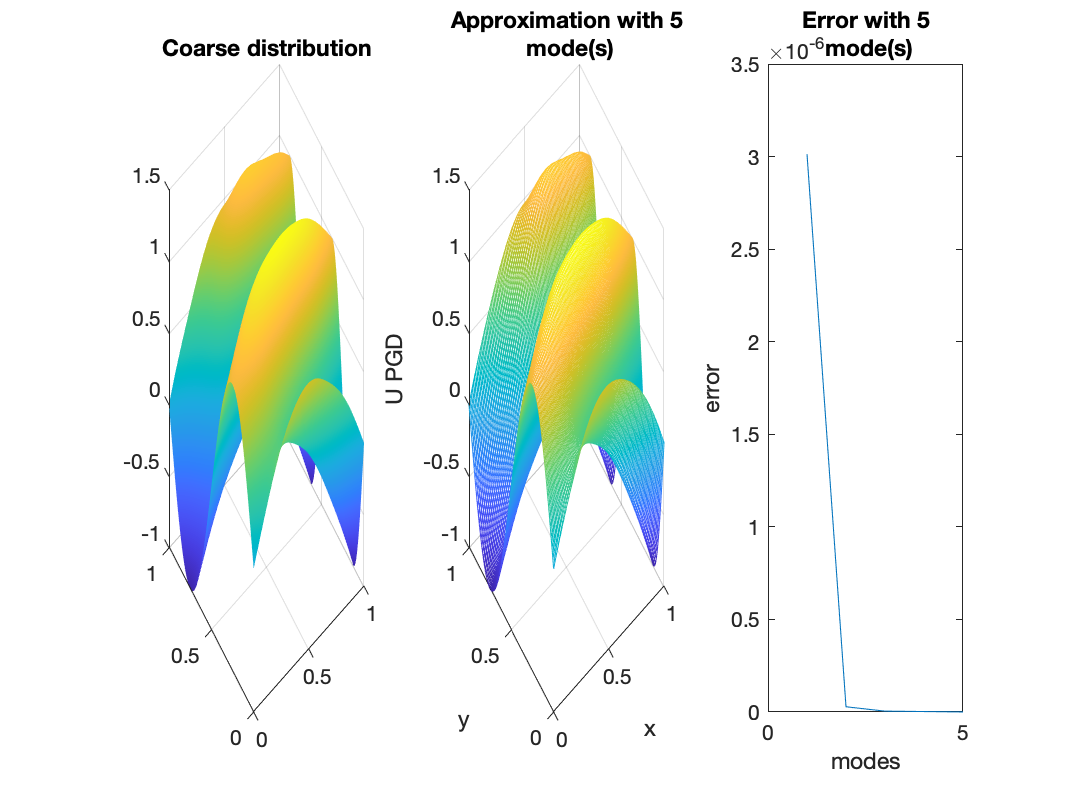
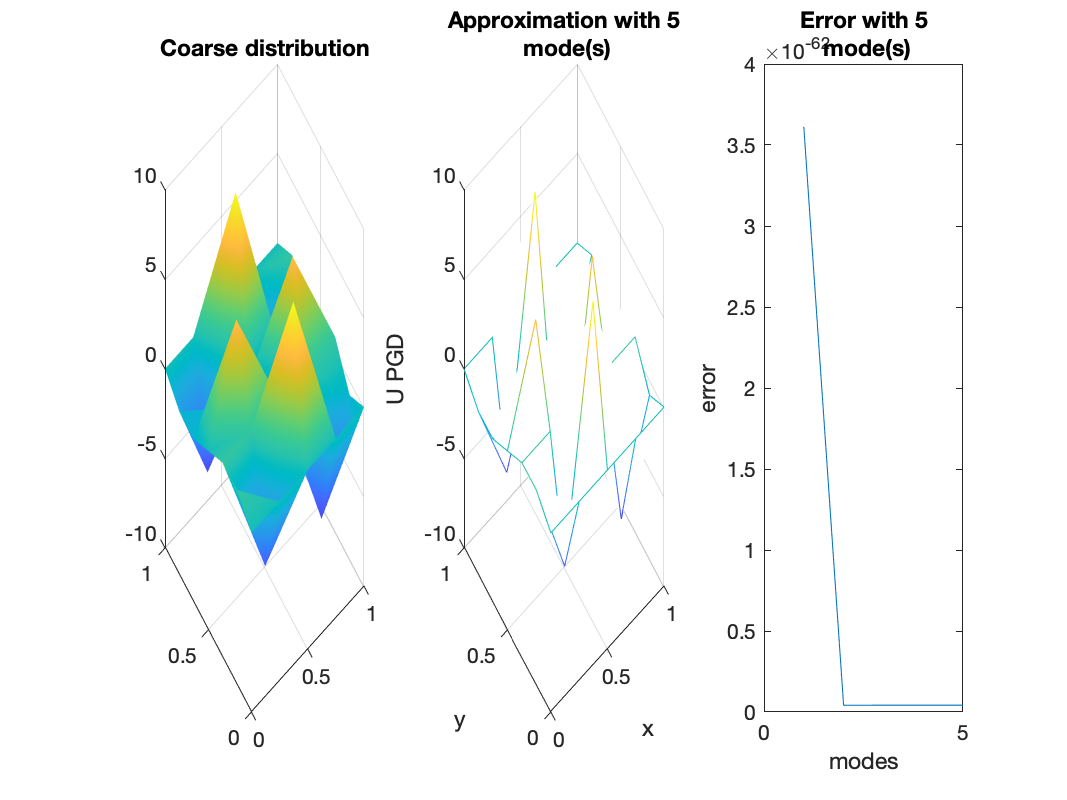
[TP2] update (tag:w)

diff --git a/TP2_eleve/TP2_moeeze.m b/TP2_eleve/TP2_moeeze.m
@@ -9,8 +9,8 @@ if_force = 1;
 
 L = 1.0; % length of the domain
 T = 1.0; % final time
-nx = 100; % number of grid points
-nt = 100; % number of time steps
+nx = 5; % number of grid points
+nt = 7; % number of time steps
 
 lx0 = 0.0; % left boundary
 lt0 = 0.0; % initial time
@@ -41,11 +41,11 @@ udLd = -sin(4*pi*lt)/T; % boundary condition
 
 %% discrete force
 if if_force==1
-   % f = (1e3 * (sin(3*pi*lt)/T)' * (sin(5*pi*lx)/L))';
+    f = (1e3 * (sin(3*pi*lt)/T)' * (sin(5*pi*lx)/L))';
     [mesh_x_f,mesh_t_f] = meshgrid(tf,xf);
     [mesh_x_g,mesh_t_g] = meshgrid(tc,xc);
-    fg = 10*rand(nx/10,nt/10);
-    f = interp2(mesh_x_g,mesh_t_g,fg,mesh_x_f,mesh_t_f,'spline');
+    %fg = 100*rand(nt/10,nx/10);
+    %f = interp2(mesh_x_g,mesh_t_g,fg,mesh_x_f,mesh_t_f,'spline');
 end
 %%%%%%%%%%%%%%%%%%%%%%%%%%%%%%%%%%%%%%%%%%%%%%%%%%%%%%%%%%%%%%
 
@@ -111,7 +111,7 @@ G = F - K*ucl;
 
 lambda = lt;
 iter = 0;
-W = zeros(nx, nt);
+W = zeros(nx, nt) + ucl;
 nb_modes = 5;
 error = zeros(1, nb_modes);
 for i = 1:nb_modes
@@ -132,11 +132,11 @@ for i = 1:nb_modes
     end
     G = G - K*Lambda*lambda;
     W = W + Lambda * lambda;
-    u_red = ucl + W;
+    
     num = zeros(nx, 1);
     den = zeros(nx, 1);
     for j=1:nx
-        num(j) = (u(j, :) - u_red(j, :))*It*(u(j, :) - u_red(j, :))';
+        num(j) = (u(j, :) - W(j, :))*It*(u(j, :) - W(j, :))';
         den(j) = (u(j, :))*It*(u(j, :))';
     end
     num = num'*Ix*num;
@@ -144,7 +144,7 @@ for i = 1:nb_modes
     error(i) = num/den;
 
     subplot(1,3,2)
-    mesh(lx_mesh,lt_mesh,u_red');
+    mesh(lx_mesh,lt_mesh,W');
     xlabel('x')
     ylabel('y')
     zlabel('U PGD')
@@ -160,7 +160,7 @@ for i = 1:nb_modes
     pause(0.5)
 end
 
-    
+u_red = W;
 fprintf('\nNumber of iterations: %d', iter);
 fprintf('\n\nFinal error: %d', er);
 saveas(gcf, strcat('../Final Report/assets/TP2_red_anim_solution_', num2str(if_force), '.png'));
